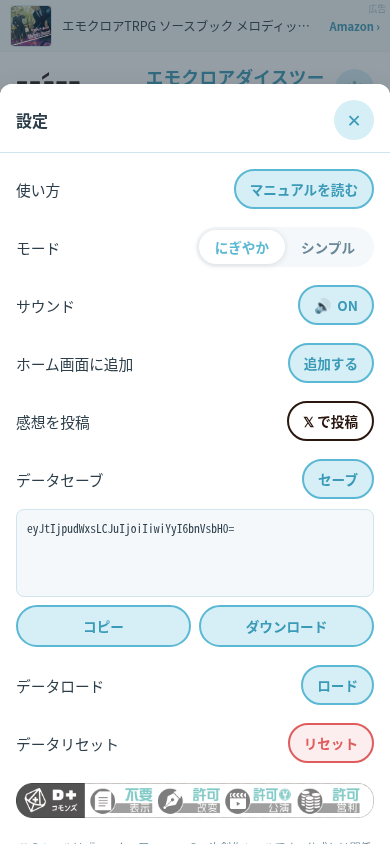
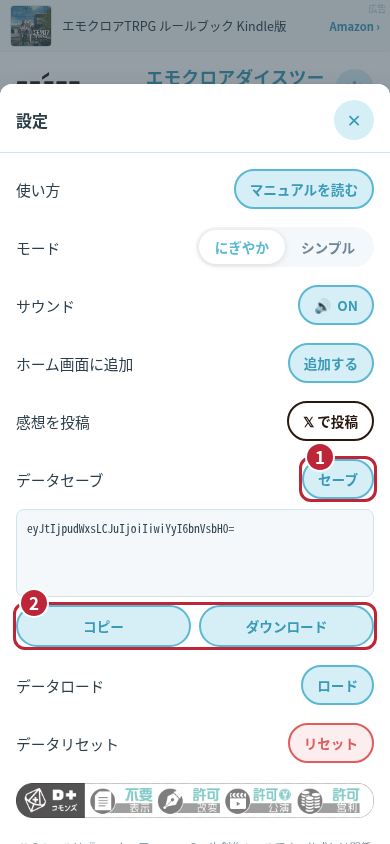
Simplify dice navigation and redesign illustrated manual

diff --git a/dice/about/index.html b/dice/about/index.html
@@ -5,119 +5,10 @@
   <meta name="viewport" content="width=device-width, initial-scale=1.0">
   <title>エモクロアダイスツール 使い方マニュアル - ワンマンセル ツールズ</title>
   <meta name="description" content="エモクロアTRPGの判定・ステータス管理をブラウザで完結。使い方・機能・よくある質問を解説します。">
-  <link rel="icon" href="../icons/favicon.svg" type="image/svg+xml">
-  <link rel="apple-touch-icon" href="../icons/apple-touch-icon.png">
-  <link rel="preconnect" href="https://fonts.googleapis.com">
-  <link rel="preconnect" href="https://fonts.gstatic.com" crossorigin>
-  <link href="https://fonts.googleapis.com/css2?family=M+PLUS+Rounded+1c:wght@400;700;800&display=swap" rel="stylesheet">
-  <style>
-    *, *::before, *::after { box-sizing: border-box; margin: 0; padding: 0; }
-    body { font-family: 'M PLUS Rounded 1c', sans-serif; background: #FFF9F6; color: #333; min-height: 100vh; }
-
-    .topbar {
-      background: #FF6B1A;
-      color: #fff;
-      padding: 12px 20px;
-      display: flex;
-      align-items: center;
-      justify-content: space-between;
-      position: sticky;
-      top: 0;
-      z-index: 10;
-    }
-    .topbar a { color: #fff; text-decoration: none; font-weight: 700; font-size: .88rem; }
-    .topbar-brand { opacity: .85; font-size: .75rem; }
-
-    .hero {
-      background: linear-gradient(135deg, #FF6B1A 0%, #FFB347 100%);
-      color: #fff;
-      padding: 52px 24px 44px;
-      text-align: center;
-    }
-    .hero-icon { font-size: 3.8rem; margin-bottom: 14px; }
-    .hero-title { font-size: 1.8rem; font-weight: 800; line-height: 1.3; margin-bottom: 10px; }
-    .hero-sub { font-size: .92rem; opacity: .92; line-height: 1.8; max-width: 480px; margin: 0 auto; }
-    .hero-cta {
-      margin-top: 28px;
-      display: inline-block;
-      background: #fff;
-      color: #FF6B1A;
-      border-radius: 50px;
-      padding: 13px 40px;
-      font-size: .95rem;
-      font-weight: 800;
-      text-decoration: none;
-      transition: opacity .15s;
-    }
-    .hero-cta:hover { opacity: .9; }
-
-    .content a { color: #A54100; text-underline-offset: 3px; }
-    h2 { scroll-margin-top: 75px; }
-    h3 { font-size: 15px; margin: 24px 0 8px; }
-    .manual-shot { margin: 24px 0 32px; padding: 20px; background: #fff; border: 1px solid #F0E8E0; border-radius: 20px; }
-    .manual-shot a { display: block; }
-    .manual-shot img { display: block; width: 100%; max-width: 320px; height: auto; margin: auto; border: 1px solid #ddd; border-radius: 12px; }
-    .manual-shot figcaption { margin-top: 16px; font-size: 14px; line-height: 1.9; }
-    .shot-label { display: inline-block; background: #FFF0E3; border-radius: 6px; padding: 1px 8px; font-weight: 700; color: #A54100; }
-    .manual-nav { display: flex; flex-wrap: wrap; gap: 12px 20px; margin-bottom: 32px; line-height: 1.8; }
-    .content {
-      max-width: 680px;
-      margin: 0 auto;
-      padding: 48px 24px 64px;
-    }
-    h2 {
-      font-size: 17px;
-      font-weight: 700;
-      color: #FF6B1A;
-      margin: 40px 0 12px;
-      padding-bottom: 8px;
-      border-bottom: 2px solid #FFD4B8;
-    }
-    h2:first-child { margin-top: 0; }
-    p { font-size: 14px; line-height: 1.9; color: #444; margin-bottom: 8px; }
-    ol { padding-left: 20px; }
-    ol li { font-size: 14px; line-height: 1.9; color: #444; margin-bottom: 8px; }
-    dl dt { font-weight: 700; color: #333; margin-top: 20px; font-size: 14px; }
-    dl dd {
-      margin-left: 0;
-      padding-left: 12px;
-      border-left: 3px solid #FFD4B8;
-      margin-top: 4px;
-      font-size: 14px;
-      line-height: 1.9;
-      color: #444;
-    }
-
-    .cta-wrap {
-      text-align: center;
-      margin-top: 56px;
-      padding-top: 36px;
-      border-top: 1px solid #F0E8E0;
-    }
-    .cta-wrap p { color: #8A7A70; margin-bottom: 16px; }
-    .cta-btn {
-      display: inline-block;
-      background: #FF6B1A;
-      color: #fff;
-      border-radius: 50px;
-      padding: 14px 52px;
-      font-size: 1rem;
-      font-weight: 800;
-      text-decoration: none;
-      transition: background .15s;
-    }
-    .cta-btn:hover { background: #E85A0D; }
-
-    footer {
-      background: #2A1810;
-      color: rgba(255,255,255,.55);
-      text-align: center;
-      padding: 20px 16px;
-      font-size: .75rem;
-      line-height: 1.8;
-    }
-    footer a { color: rgba(255,255,255,.7); text-decoration: none; }
-  </style>
+  <link rel="icon" href="../icons/favicon.svg?v=2" type="image/svg+xml">
+  <link rel="apple-touch-icon" href="../icons/apple-touch-icon.png?v=2">
+  <meta name="theme-color" content="#5BB8D4">
+  <link rel="stylesheet" href="manual.css?v=2">
 </head>
 <body>
 
@@ -127,13 +18,13 @@
 </nav>
 
 <div class="hero">
-  <div class="hero-icon">🎲</div>
+  <img class="hero-icon" src="../icons/favicon.svg?v=2" alt="" width="72" height="72">
   <h1 class="hero-title">エモクロアダイスツール<br>使い方マニュアル</h1>
   <div class="hero-sub">エモクロアTRPGの判定・ステータス管理をブラウザで完結。セッション中にスマホで開けばリアルタイムに使えます。</div>
   <a class="hero-cta" href="/dice/">今すぐ使う</a>
 </div>
 
-<div class="content">
+<main class="content">
 
   <nav class="manual-nav" aria-label="マニュアルの目次">
     <a href="#quick-start">はじめに</a><a href="#character">キャラ</a><a href="#roll">判定</a><a href="#other-dice">ダイスロール</a><a href="#status">ステータス・メモ</a><a href="#backup">保存・引き継ぎ</a><a href="#home-screen">ホーム画面に追加</a><a href="#faq">よくある質問</a>
@@ -150,7 +41,7 @@
 
   <figure class="manual-shot">
     <a href="images/judgment.png" aria-label="判定タブ：ダイス数・判定値、ロールボタンと判定結果（画像を拡大）"><img src="images/judgment.png" alt="判定タブ：ダイス数・判定値、ロールボタンと判定結果" width="390" height="844" loading="lazy"></a>
-    <figcaption><span class="shot-label">1 判定する</span> 上段の「ダイス数」「判定値」を設定し、青い「ダイスを振る」をタップ。ボタンの下に出目と成功数が表示されます。出目は毎回変わります。<br>画像をタップすると拡大できます。画面はスマホ表示の例です。</figcaption>
+    <figcaption><span class="shot-label">1 判定する</span> 赤枠①で「ダイス数」「判定値」を設定し、赤枠②の「ダイスを振る」をタップ。ボタンの下に出目と成功数が表示されます。出目は毎回変わります。<br>画像をタップすると拡大できます。赤い番号と枠は説明用です。画面はスマホ表示の例です。</figcaption>
   </figure>
 
   <h2 id="character">「キャラ」：キャラクターを準備する</h2>
@@ -160,7 +51,7 @@
 
   <figure class="manual-shot">
     <a href="images/character.png" aria-label="キャラタブ：プロフィール入力欄と能力値の設定（画像を拡大）"><img src="images/character.png" alt="キャラタブ：プロフィール入力欄と能力値の設定" width="390" height="844" loading="lazy"></a>
-    <figcaption><span class="shot-label">2 キャラを準備</span> 「キャラ」タブでプロフィールを入力し、その下の能力値を設定します。下へスクロールすると技能・共鳴感情も編集できます。<br>画像をタップすると拡大できます。画面はスマホ表示の例です。</figcaption>
+    <figcaption><span class="shot-label">2 キャラを準備</span> 赤枠①の「キャラ」タブで、赤枠②のプロフィールを入力し、その下の能力値を設定します。下へスクロールすると技能・共鳴感情も編集できます。<br>画像をタップすると拡大できます。赤い番号と枠は説明用です。画面はスマホ表示の例です。</figcaption>
   </figure>
 
   <h2 id="roll">「判定」：技能判定と成功数の見方</h2>
@@ -195,11 +86,11 @@
 
   <figure class="manual-shot">
     <a href="images/backup.png" aria-label="設定画面：データセーブを開いた状態とコピー・ダウンロードボタン（画像を拡大）"><img src="images/backup.png" alt="設定画面：データセーブを開いた状態とコピー・ダウンロードボタン" width="390" height="844" loading="lazy"></a>
-    <figcaption><span class="shot-label">3 バックアップ</span> 右上の ⚙ →「データセーブ」の「セーブ」でコードを表示。「コピー」または「ダウンロード」で保管します。画像は未入力のデータを使っています。<br>画像をタップすると拡大できます。画面はスマホ表示の例です。</figcaption>
+    <figcaption><span class="shot-label">3 バックアップ</span> 右上の ⚙ → 赤枠①の「セーブ」でコードを表示。赤枠②の「コピー」または「ダウンロード」で保管します。画像は未入力のデータを使っています。<br>画像をタップすると拡大できます。赤い番号と枠は説明用です。画面はスマホ表示の例です。</figcaption>
   </figure>
 
   <h2 id="home-screen">スマホのホーム画面に追加する</h2>
-  <p>ツール上部の「ホーム画面に追加」、または ⚙ →「ホーム画面に追加」から案内を開けます。対応ブラウザではインストール確認が表示されます。追加すると、専用のダイスアイコンから起動できます。</p>
+  <p>スマホ・タブレットで右上の ⚙（設定）→「ホーム画面に追加」をタップすると案内が開きます。パソコンではこの項目は表示しません。対応ブラウザではインストール確認が表示されます。追加すると、専用のダイスアイコンから起動できます。</p>
   <h3>iPhone・iPad（Safari）</h3>
   <ol>
     <li>Safari でツールのページを開き、共有ボタン（□↑）をタップします。共有はメニュー内にある場合もあります。</li>
@@ -217,8 +108,8 @@
 
 
   <figure class="manual-shot">
-    <a href="images/home-screen.png" aria-label="iPhone向けのホーム画面追加ガイドとバックアップの注意書き（画像を拡大）"><img src="images/home-screen.png" alt="iPhone向けのホーム画面追加ガイドとバックアップの注意書き" width="390" height="844" loading="lazy"></a>
-    <figcaption><span class="shot-label">4 ホーム画面に追加</span> ツール上部の「ホーム画面に追加」で端末に合った手順が開きます。これはツール内の iPhone 向け案内画面です。共有メニューの操作は Safari 側で行います。<br>画像をタップすると拡大できます。画面はスマホ表示の例です。</figcaption>
+    <a href="images/home-screen.png" aria-label="設定内のホーム画面に追加ボタン（画像を拡大）"><img src="images/home-screen.png" alt="設定内のホーム画面に追加ボタン" width="390" height="844" loading="lazy"></a>
+    <figcaption><span class="shot-label">4 ホーム画面に追加</span> スマホ・タブレットの ⚙（設定）→「ホーム画面に追加」で端末に合った手順が開きます。画像の赤枠は設定内の入口です。タップすると端末に合った案内が開きます。<br>画像をタップすると拡大できます。赤い番号と枠は説明用です。画面はスマホ表示の例です。</figcaption>
   </figure>
 
   <h2 id="faq">よくある質問</h2>
@@ -230,7 +121,7 @@
     <dt>Q. 再読み込みするとデータが消えます。</dt>
     <dd>A. プライベートブラウズや保存を制限する設定では、データが保持されない場合があります。通常のブラウザで開き、データセーブも併用してください。ダイス数・判定値が初期値に戻るのは仕様です。</dd>
     <dt>Q. ホーム画面への追加ボタンが表示されません。</dt>
-    <dd>A. ホーム画面からアプリとして起動中は追加案内を隠しています。ブラウザ側の追加項目が見つからない場合は、Safari／Chrome の通常のタブで開き直してください。</dd>
+    <dd>A. パソコン、またはホーム画面からアプリとして起動中は追加案内を隠しています。ブラウザ側の追加項目が見つからない場合は、Safari／Chrome の通常のタブで開き直してください。</dd>
   </dl>
 
   <div class="cta-wrap">
@@ -238,7 +129,7 @@
     <a class="cta-btn" href="/dice/">🎲 エモクロアダイスツールを使う</a>
   </div>
 
-</div>
+</main>
 
 <footer>
   <p><a href="/">ワンマンセル ツールズ</a> &nbsp;|&nbsp; <a href="/privacy/">プライバシーポリシー</a> &nbsp;|&nbsp; <a href="/about/">お問い合わせ</a></p>

diff --git a/dice/about/manual.css b/dice/about/manual.css
@@ -1,0 +1,33 @@
+
+:root { color-scheme: light; --bg:#F4F8FB; --surface:#fff; --text:#2C3E4A; --muted:#496778; --accent:#216F87; --border:#D0E4ED; }
+* { box-sizing:border-box; }
+html { scroll-padding-top:90px; }
+body { margin:0; background:var(--bg); color:var(--text); font-family:-apple-system,BlinkMacSystemFont,"Hiragino Sans","Yu Gothic",Meiryo,sans-serif; font-size:16px; line-height:1.9; }
+a { color:var(--accent); text-underline-offset:4px; }
+a:focus-visible { outline:3px solid #216F87; outline-offset:4px; }
+.topbar { position:sticky; top:0; z-index:10; background:#fff; border-bottom:1px solid var(--border); padding:14px max(20px,calc((100vw - 960px)/2)); display:flex; justify-content:space-between; gap:16px; align-items:center; }
+.topbar a { font-weight:700; text-decoration:none; font-size:14px; }
+.topbar-brand { font-size:12px!important; color:var(--muted); }
+.hero { max-width:800px; margin:auto; padding:40px 24px 32px; text-align:center; }
+.hero-icon { display:block; margin:0 auto 16px; border-radius:18px; }
+h1 { font-size:clamp(23px,4vw,32px); line-height:1.55; margin:0 0 16px; }
+.hero-sub { color:var(--muted); max-width:560px; margin:auto; }
+.hero-cta,.cta-btn { display:inline-block; margin-top:20px; padding:10px 26px; background:#216F87; color:#fff; border-radius:24px; font-weight:700; text-decoration:none; }
+.content { max-width:800px; margin:auto; padding:0 28px 56px; }
+.manual-nav { background:#fff; border:1px solid var(--border); border-radius:16px; padding:20px; display:grid; grid-template-columns:repeat(2,minmax(0,1fr)); gap:8px 20px; margin-bottom:40px; }
+.manual-nav a { padding:5px 0; }
+h2 { font-size:22px; line-height:1.6; margin:48px 0 20px; padding:0 0 12px; border-bottom:2px solid var(--border); color:#216F87; }
+h3 { font-size:18px; margin:28px 0 12px; }
+p { margin:0 0 16px; }
+ol { padding-left:1.7em; }
+li { padding-left:4px; margin-bottom:12px; }
+li::marker { color:var(--accent); font-weight:700; }
+.manual-shot { margin:28px 0 40px; padding:24px; background:#fff; border:1px solid var(--border); border-radius:16px; display:grid; grid-template-columns:minmax(0,300px) minmax(0,1fr); gap:24px; align-items:center; }
+.manual-shot img { display:block; width:100%; height:auto; border:1px solid var(--border); border-radius:12px; }
+.manual-shot figcaption { font-size:15px; line-height:1.9; }
+.shot-label { display:block; color:#216F87; font-weight:700; font-size:18px; margin-bottom:12px; }
+dt { font-weight:700; margin-top:24px; }
+dd { margin:8px 0 0; padding:12px 16px; border-left:3px solid #5BB8D4; background:#fff; }
+.cta-wrap { margin-top:48px; text-align:center; border-top:1px solid var(--border); padding-top:32px; }
+footer { border-top:1px solid var(--border); padding:24px; text-align:center; font-size:13px; color:var(--muted); }
+@media(max-width:600px) { .content { padding:0 20px 40px; } .manual-shot { grid-template-columns:1fr; padding:16px; gap:20px; } .manual-shot>a { max-width:340px; width:100%; margin:auto; } .topbar-brand { display:none; } h2 { font-size:20px; } }

diff --git a/dice/index.html b/dice/index.html
@@ -7,12 +7,12 @@
   <meta name="apple-mobile-web-app-status-bar-style" content="default">
   <meta name="apple-mobile-web-app-title" content="エモクロア">
   <meta name="theme-color" content="#5BB8D4">
-  <link rel="icon" href="icons/favicon.svg" type="image/svg+xml">
-  <link rel="icon" href="icons/favicon.ico" sizes="any">
-  <link rel="apple-touch-icon" href="icons/apple-touch-icon.png" sizes="180x180">
+  <link rel="icon" href="icons/favicon.svg?v=2" type="image/svg+xml">
+  <link rel="icon" href="icons/favicon.ico?v=2" sizes="any">
+  <link rel="apple-touch-icon" href="icons/apple-touch-icon.png?v=2" sizes="180x180">
   <link rel="manifest" href="manifest.json">
   <title>エモクロアダイスツール</title>
-  <link rel="stylesheet" href="style.css?v=2026-11-05">
+  <link rel="stylesheet" href="style.css?v=2026-11-05b">
   <link rel="preconnect" href="https://fonts.googleapis.com">
   <link rel="preconnect" href="https://fonts.gstatic.com" crossorigin>
   <link href="https://fonts.googleapis.com/css2?family=M+PLUS+Rounded+1c:wght@400;700;800&display=swap" rel="stylesheet">
@@ -38,11 +38,6 @@
         <button id="settings-btn" class="icon-btn" aria-label="設定を開く">⚙</button>
       </div>
     </header>
-
-    <nav class="help-nav" aria-label="使い方とアプリの追加">
-      <a href="about/">使い方マニュアル</a>
-      <button id="install-shortcut" type="button">ホーム画面に追加</button>
-    </nav>
 
     <section class="history-section" aria-label="ロール履歴">
       <ul id="history-list" class="history-list"></ul>
@@ -412,7 +407,7 @@
             <span class="sound-label">ON</span>
           </button>
         </div>
-        <div class="setting-row" id="install-row">
+        <div class="setting-row" id="install-row" hidden>
           <span class="setting-label">ホーム画面に追加</span>
           <button id="install-btn" class="install-btn">追加する</button>
         </div>
@@ -479,7 +474,7 @@
     </div>
   </div>
 
-  <script src="script.js?v=2026-11-05"></script>
+  <script src="script.js?v=2026-11-05b"></script>
 
 </body>
 </html>

diff --git a/dice/script.js b/dice/script.js
@@ -938,7 +938,6 @@ window.addEventListener('beforeinstallprompt', e => {
 
 function hideInstallActions() {
   document.getElementById('install-row').hidden = true;
-  document.getElementById('install-shortcut').hidden = true;
 }
 
 window.addEventListener('appinstalled', () => {
@@ -948,7 +947,6 @@ window.addEventListener('appinstalled', () => {
 
 function setupInstallButton() {
   const installBtn = document.getElementById('install-btn');
-  const shortcut = document.getElementById('install-shortcut');
   const guide = document.getElementById('ios-guide-overlay');
   const closeBtn = document.getElementById('ios-guide-close');
   const standalone = window.matchMedia('(display-mode: standalone)');
@@ -957,7 +955,8 @@ function setupInstallButton() {
   const isAndroid = /android/i.test(navigator.userAgent);
   let returnFocus;
 
-  if (standalone.matches || navigator.standalone === true) hideInstallActions();
+  if ((!isIos && !isAndroid) || standalone.matches || navigator.standalone === true) return;
+  document.getElementById('install-row').hidden = false;
   standalone.addEventListener('change', e => { if (e.matches) hideInstallActions(); });
 
   function closeGuide() {
@@ -1003,7 +1002,6 @@ function setupInstallButton() {
     }
   }
   installBtn.addEventListener('click', install);
-  shortcut.addEventListener('click', install);
   closeBtn.addEventListener('click', closeGuide);
   guide.addEventListener('click', e => { if (e.target === guide) closeGuide(); });
   guide.addEventListener('keydown', e => {

diff --git a/dice/style.css b/dice/style.css
@@ -1654,15 +1654,11 @@ ul { list-style: none; }
   line-height: 1.7;
 }
 
-/* Help is available without opening settings. */
-.help-nav { display: flex; flex-wrap: wrap; justify-content: center; gap: 8px 20px; padding: 10px 16px; font-size: .8rem; }
-.help-nav a, .help-nav button { color: var(--accent-dark); text-underline-offset: 3px; }
-.help-nav button { background: none; border: 0; font: inherit; text-decoration: underline; cursor: pointer; }
-.help-nav [hidden], .setting-row[hidden] { display: none; }
+.setting-row[hidden] { display: none; }
 a.install-btn { text-decoration: none; }
 .ios-guide-sheet { max-height: 90dvh; overflow-y: auto; }
 #install-guide-intro { margin-bottom: 20px; line-height: 1.7; }
 .ios-guide-note { margin-bottom: 12px; }
-.help-nav a:focus-visible, .help-nav button:focus-visible, .ios-guide-sheet a:focus-visible { outline: 2px solid var(--accent-dark); outline-offset: 4px; }
+.ios-guide-sheet a:focus-visible { outline: 2px solid var(--accent-dark); outline-offset: 4px; }
 .settings-sheet { max-height: 90dvh; overflow-y: auto; }
 .settings-sheet .settings-header { position: sticky; top: 0; background: var(--surface); z-index: 1; }
